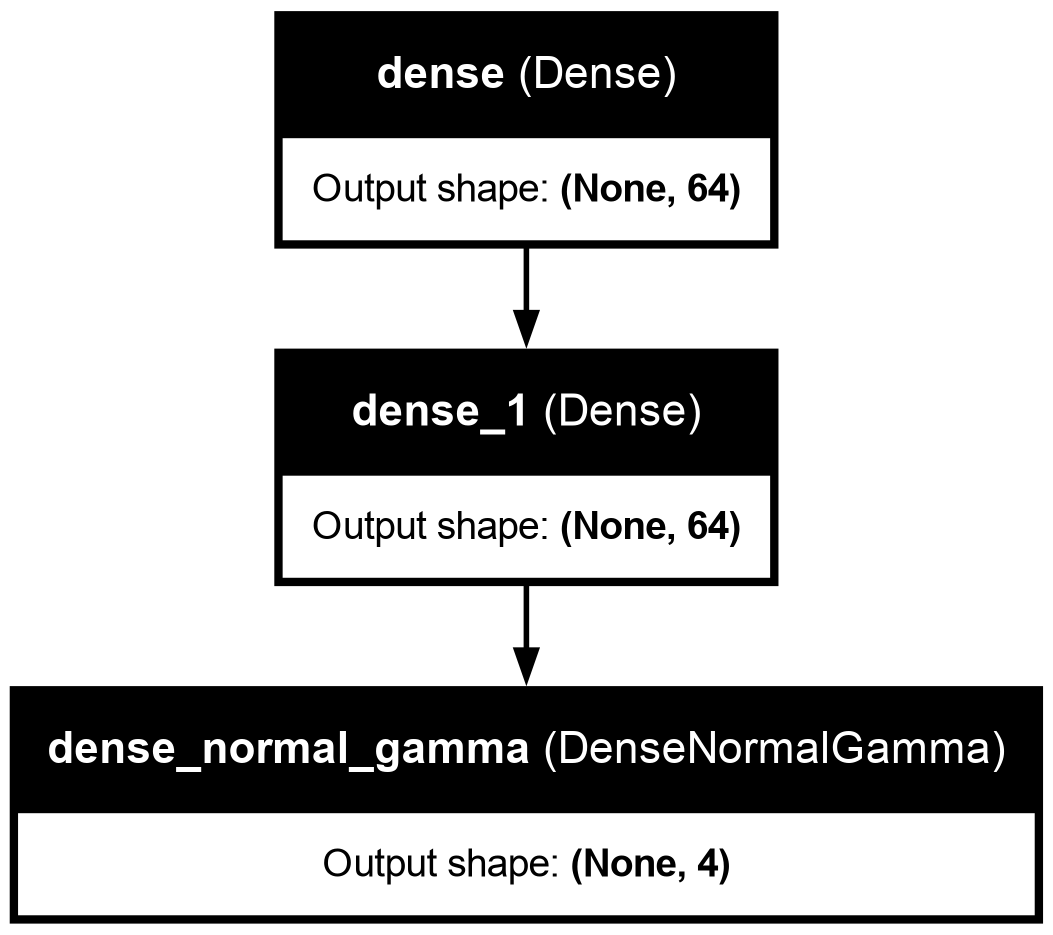
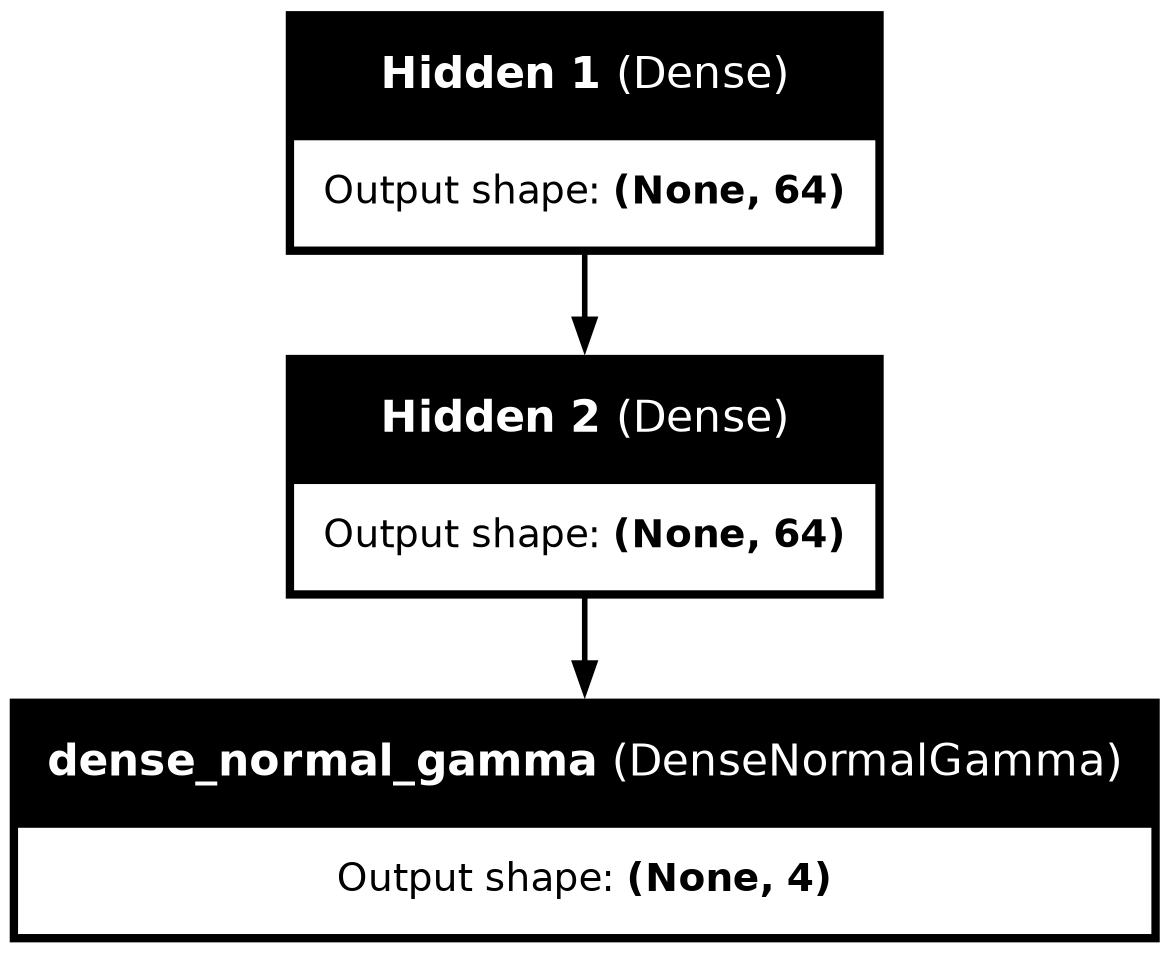
check hello world file on evidential deep learning

diff --git a/neuralnet/hello_world.py b/neuralnet/hello_world.py
@@ -1,0 +1,83 @@
+import functools
+import numpy as np
+import matplotlib.pyplot as plt
+
+import evidential_deep_learning as edl
+import tensorflow as tf
+
+
+def main():
+    # Create some training and testing data
+    x_train, y_train = my_data(-4, 4, 1000)
+    x_test, y_test = my_data(-7, 7, 1000, train=False)
+
+    # Define our model with an evidential output
+    model = tf.keras.Sequential(
+        [
+            tf.keras.layers.Dense(64, activation="relu"),
+            tf.keras.layers.Dense(64, activation="relu"),
+            edl.layers.DenseNormalGamma(1),
+        ]
+    )
+
+    # Custom loss function to handle the custom regularizer coefficient
+    def EvidentialRegressionLoss(true, pred):
+        return edl.losses.EvidentialRegression(true, pred, coeff=1e-2)
+
+    # Compile and fit the model!
+    model.compile(
+        optimizer=tf.keras.optimizers.Adam(5e-4), loss=EvidentialRegressionLoss
+    )
+    model.fit(x_train, y_train, batch_size=100, epochs=200)
+
+    # Predict and plot using the trained model
+    y_pred = model(x_test)
+    plot_predictions(x_train, y_train, x_test, y_test, y_pred)
+
+    # Done!!
+
+
+#### Helper functions ####
+def my_data(x_min, x_max, n, train=True):
+    x = np.linspace(x_min, x_max, n)
+    x = np.expand_dims(x, -1).astype(np.float32)
+
+    sigma = 3 * np.ones_like(x) if train else np.zeros_like(x)
+    y = x**3 + np.random.normal(0, sigma).astype(np.float32)
+
+    return x, y
+
+
+def plot_predictions(x_train, y_train, x_test, y_test, y_pred, n_stds=4, kk=0):
+    x_test = x_test[:, 0]
+    mu, v, alpha, beta = tf.split(y_pred, 4, axis=-1)
+    mu = mu[:, 0]
+    var = np.sqrt(beta / (v * (alpha - 1)))
+    var = np.minimum(var, 1e3)[:, 0]  # for visualization
+
+    plt.figure(figsize=(5, 3), dpi=200)
+    plt.scatter(x_train, y_train, s=1.0, c="#463c3c", zorder=0, label="Train")
+    plt.plot(x_test, y_test, "r--", zorder=2, label="True")
+    plt.plot(x_test, mu, color="#007cab", zorder=3, label="Pred")
+    plt.plot([-4, -4], [-150, 150], "k--", alpha=0.4, zorder=0)
+    plt.plot([+4, +4], [-150, 150], "k--", alpha=0.4, zorder=0)
+    for k in np.linspace(0, n_stds, 4):
+        plt.fill_between(
+            x_test,
+            (mu - k * var),
+            (mu + k * var),
+            alpha=0.3,
+            edgecolor=None,
+            facecolor="#00aeef",
+            linewidth=0,
+            zorder=1,
+            label="Unc." if k == 0 else None,
+        )
+    plt.gca().set_ylim(-150, 150)
+    plt.gca().set_xlim(-7, 7)
+    plt.legend(loc="upper left")
+    plt.show()
+
+
+if __name__ == "__main__":
+    main()

diff --git a/neuralnet/training02.py b/neuralnet/training02.py
@@ -45,32 +45,30 @@ X_train, X_test, Y_train, Y_test = train_test_split(X, Y, test_size=0.2, shuffle
 # plt.boxplot(Y_train)
 # plt.show()
 
-model = Sequential(
+model2 = Sequential(
     [
-        Input(shape=(2,)),
-        Dense(64, activation="relu"),
-        Dense(64, activation="relu"),
+        # Input(shape=(2,), name="Age, Mass"),
+        Dense(64, activation="relu", name="HL1"),
+        Dense(64, activation="relu", name="HL2"),
         edl.layers.DenseNormalGamma(1),
     ]
 )
 
 
 plot_model(model, to_file="model_plot.png", show_shapes=True, show_layer_names=True)
-#
 
 
 def EvidentialRegressionLoss(true, pred):
     return edl.losses.EvidentialRegression(true, pred, coeff=1e-2)
 
 
-model.compile(
+model2.compile(
     optimizer=tf.keras.optimizers.Adam(1e-3),
     loss=edl.losses.EvidentialRegression,  # Evidential loss!
 )
 
-# model.compile(optimizer=tf.keras.optimizers.Adam(5e-4), loss=EvidentialRegressionLoss)
 
-model.fit(X_train, Y_train, batch_size=10, epochs=500)
+model2.fit(X_train, Y_train, batch_size=10, epochs=10)
 
 Y_pred = model(X_test)
 
@@ -79,8 +77,8 @@ mu = mu[:, 0]
 var = np.sqrt(beta / (v * (alpha - 1)))
 var = np.minimum(var, 1e3)[:, 0]  # for visualization
 
-print(mu)
-print(var)
+# pd.DataFrame({"mu":mu,
+#               "var":var}).plot.scatter(x="mu", y="var")
 
 sys.exit()
 
